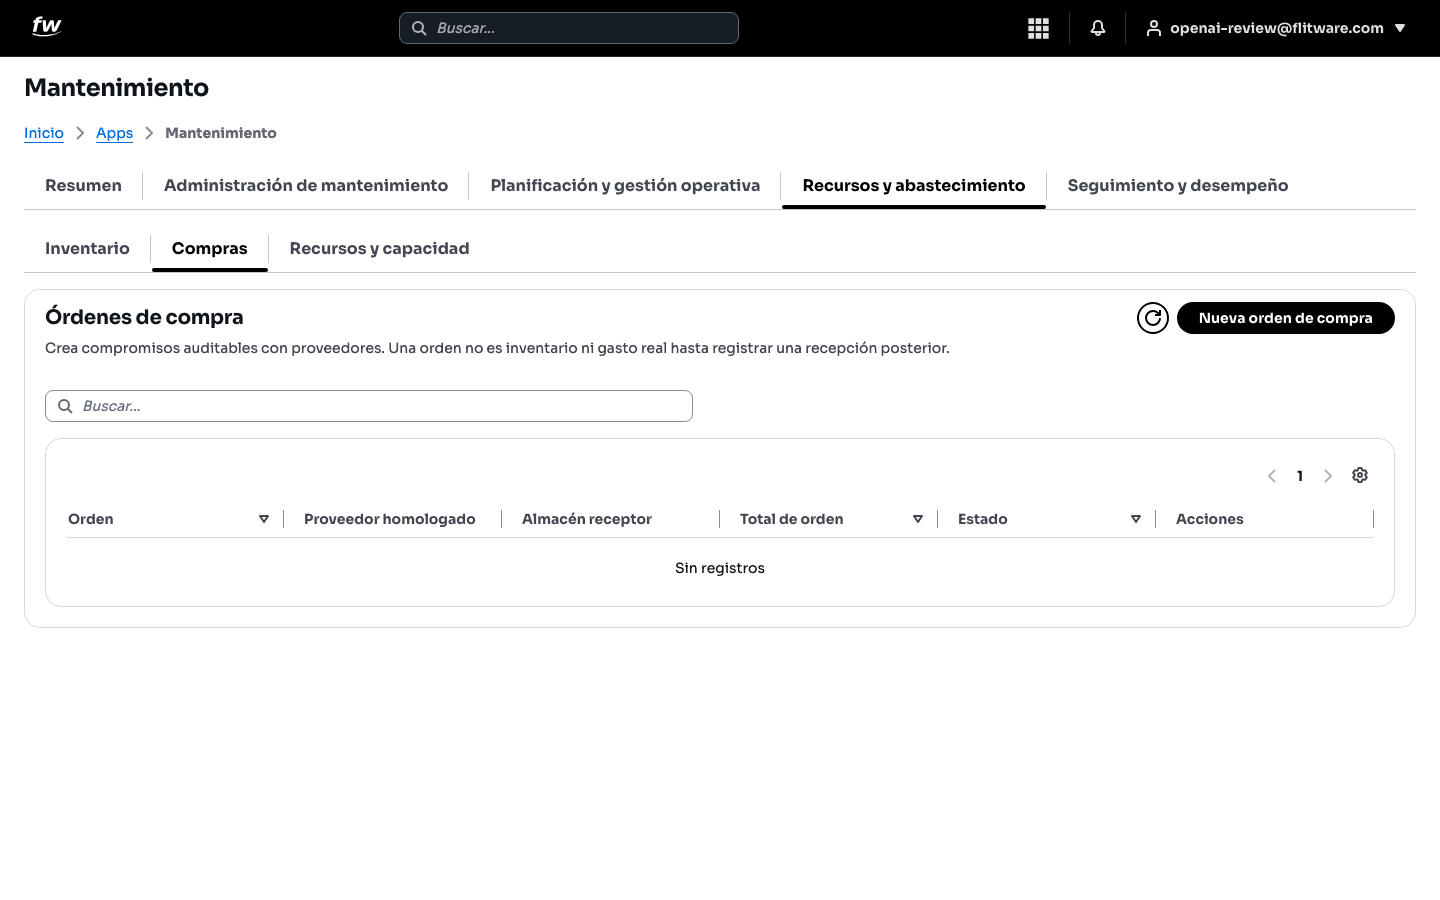
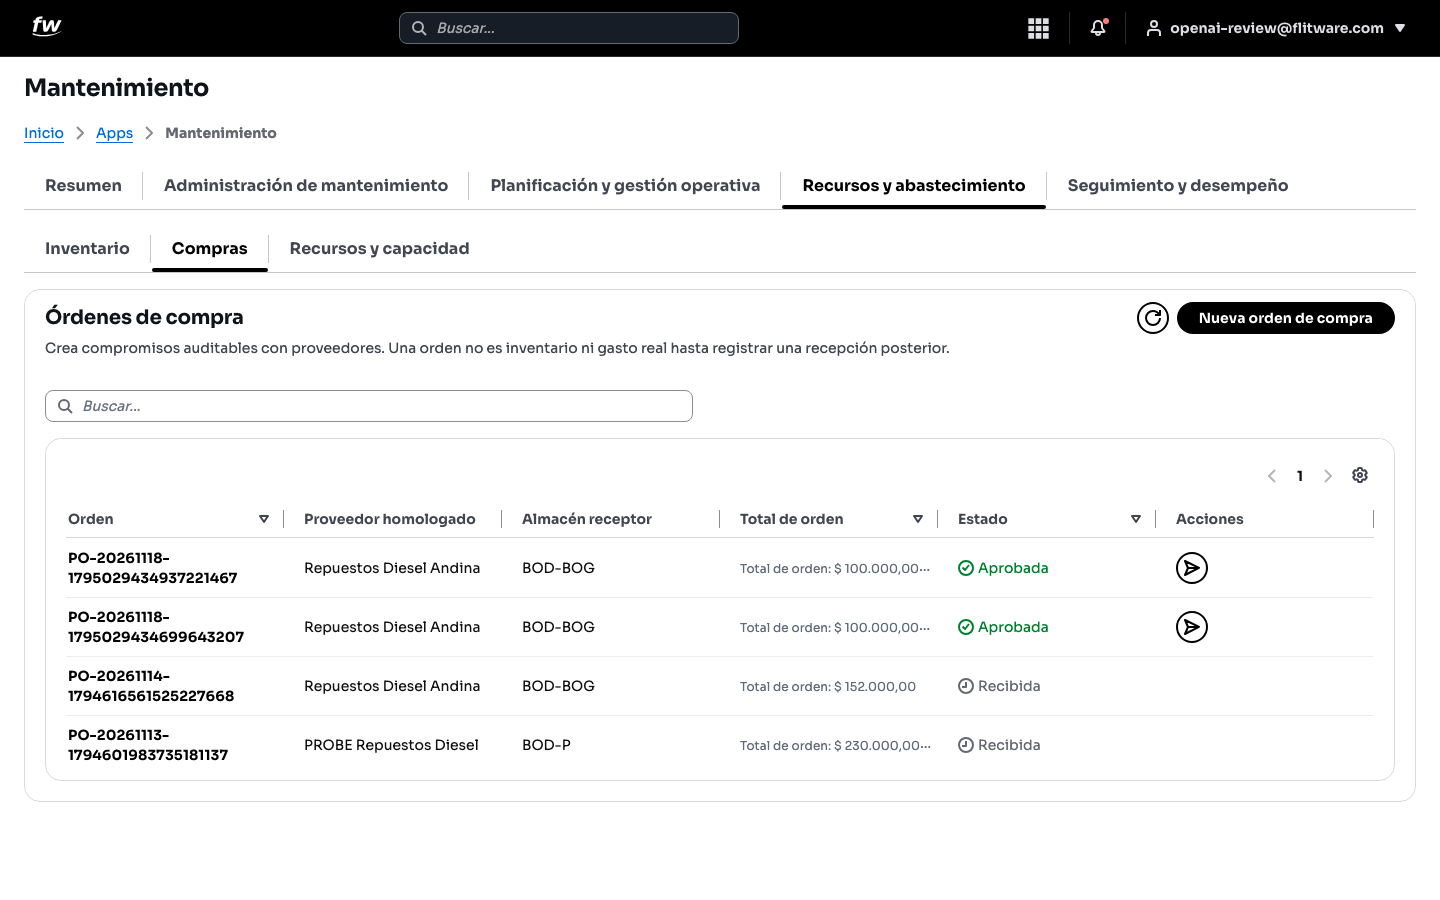
docs(mantenimiento): acciones con iconos en materiales y compras + recapturas

diff --git a/docs/operacion/mantenimiento.md b/docs/operacion/mantenimiento.md
@@ -79,7 +79,8 @@ Al abrir una OT aparece la ventana **Editar** con pestañas: **General, Tareas, 
 
 1. Entre a la pestaña **Materiales**.
 2. Pulse **Reservar material** para apartar repuestos del almacén (columnas: Almacén, Ítem, Reservado, Consumido, Estado).
-3. Abajo, el bloque **Material emitido a esta orden de trabajo** muestra lo que ya salió del almacén (Emitido, Disponible).
+3. En la columna **Acciones**, el icono de descarga **consume** el material en la OT (descuenta la existencia física) y el de deshacer **libera** el remanente reservado sin tocar el físico.
+4. Abajo, el bloque **Material emitido a esta orden de trabajo** muestra lo que ya salió del almacén (Emitido, Disponible); el icono de subida **devuelve** al almacén lo emitido que no se usó.
 
 ![Pestaña Materiales con reserva y emisión](../shots/fase3c/20c-ot-materiales.png)
 
@@ -138,6 +139,8 @@ Si un estado no aparece en la lista, no es un error: es el sistema protegiendo e
 1. Vaya a **Recursos y abastecimiento > Compras**.
 2. Pulse **Nueva orden de compra**. Recuerde la regla del sistema: una orden es un compromiso auditable con el proveedor, pero **no es inventario ni gasto real hasta registrar una recepción posterior**.
 3. La tabla controla **Orden, Proveedor homologado, Almacén receptor, Total de orden, Estado** y **Acciones**.
+4. Cuando la orden está **Aprobada**, el icono de avión en **Acciones** la marca como **Enviada**; si su empresa exige aprobación, primero aparece el icono de visto para decidir.
+5. Abra la orden (clic en su código) para recibir cada línea: el icono de descarga registra la recepción parcial en el almacén.
 
 ![Órdenes de compra](../shots/fase3c/09-compras.png)
 
